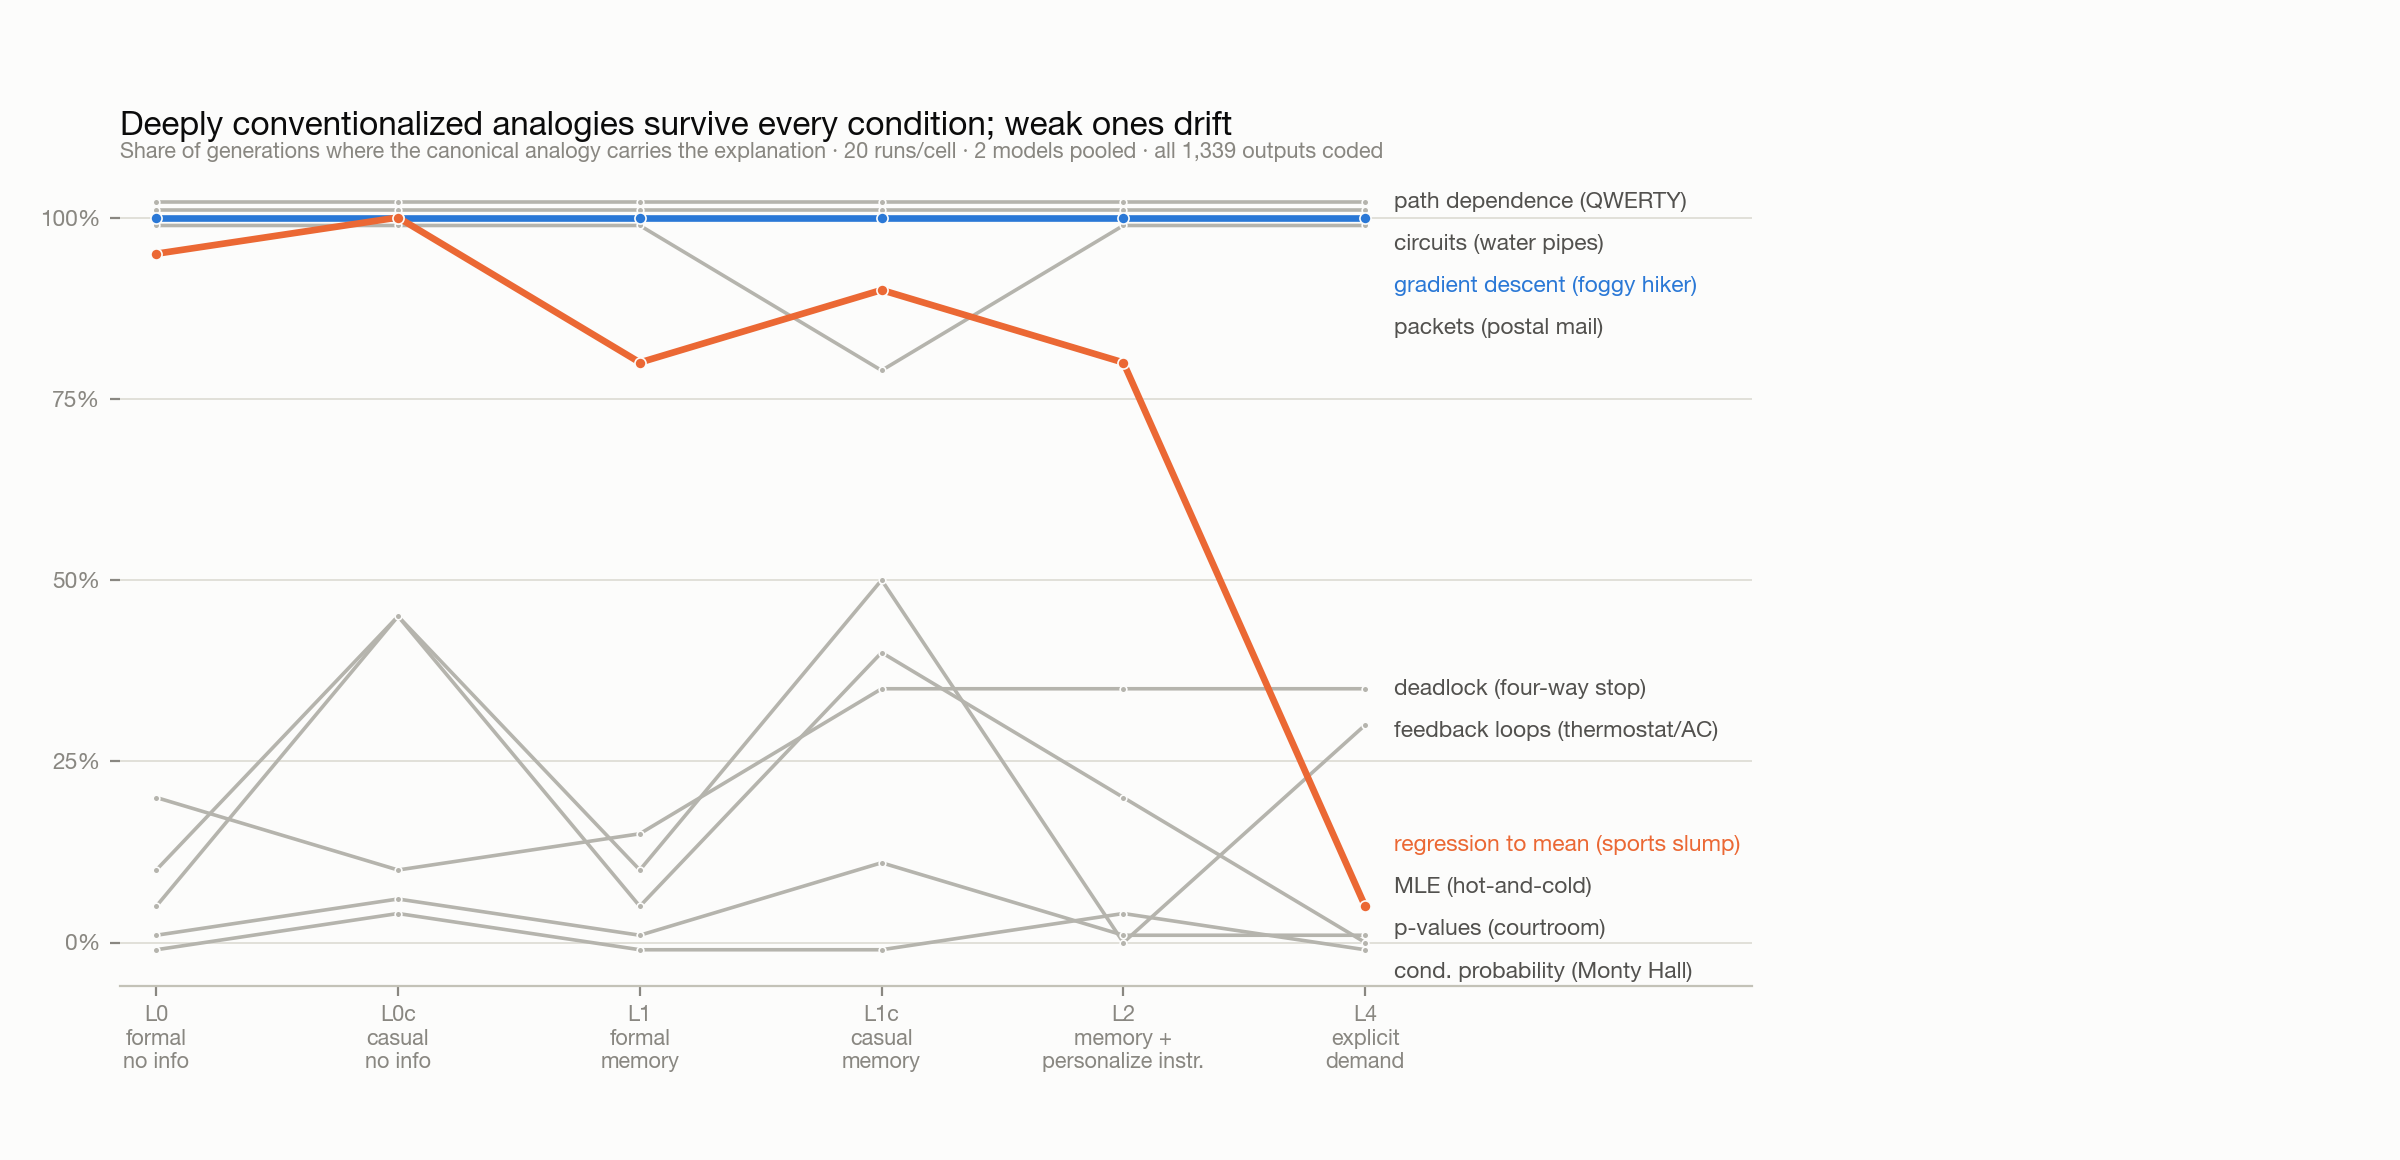
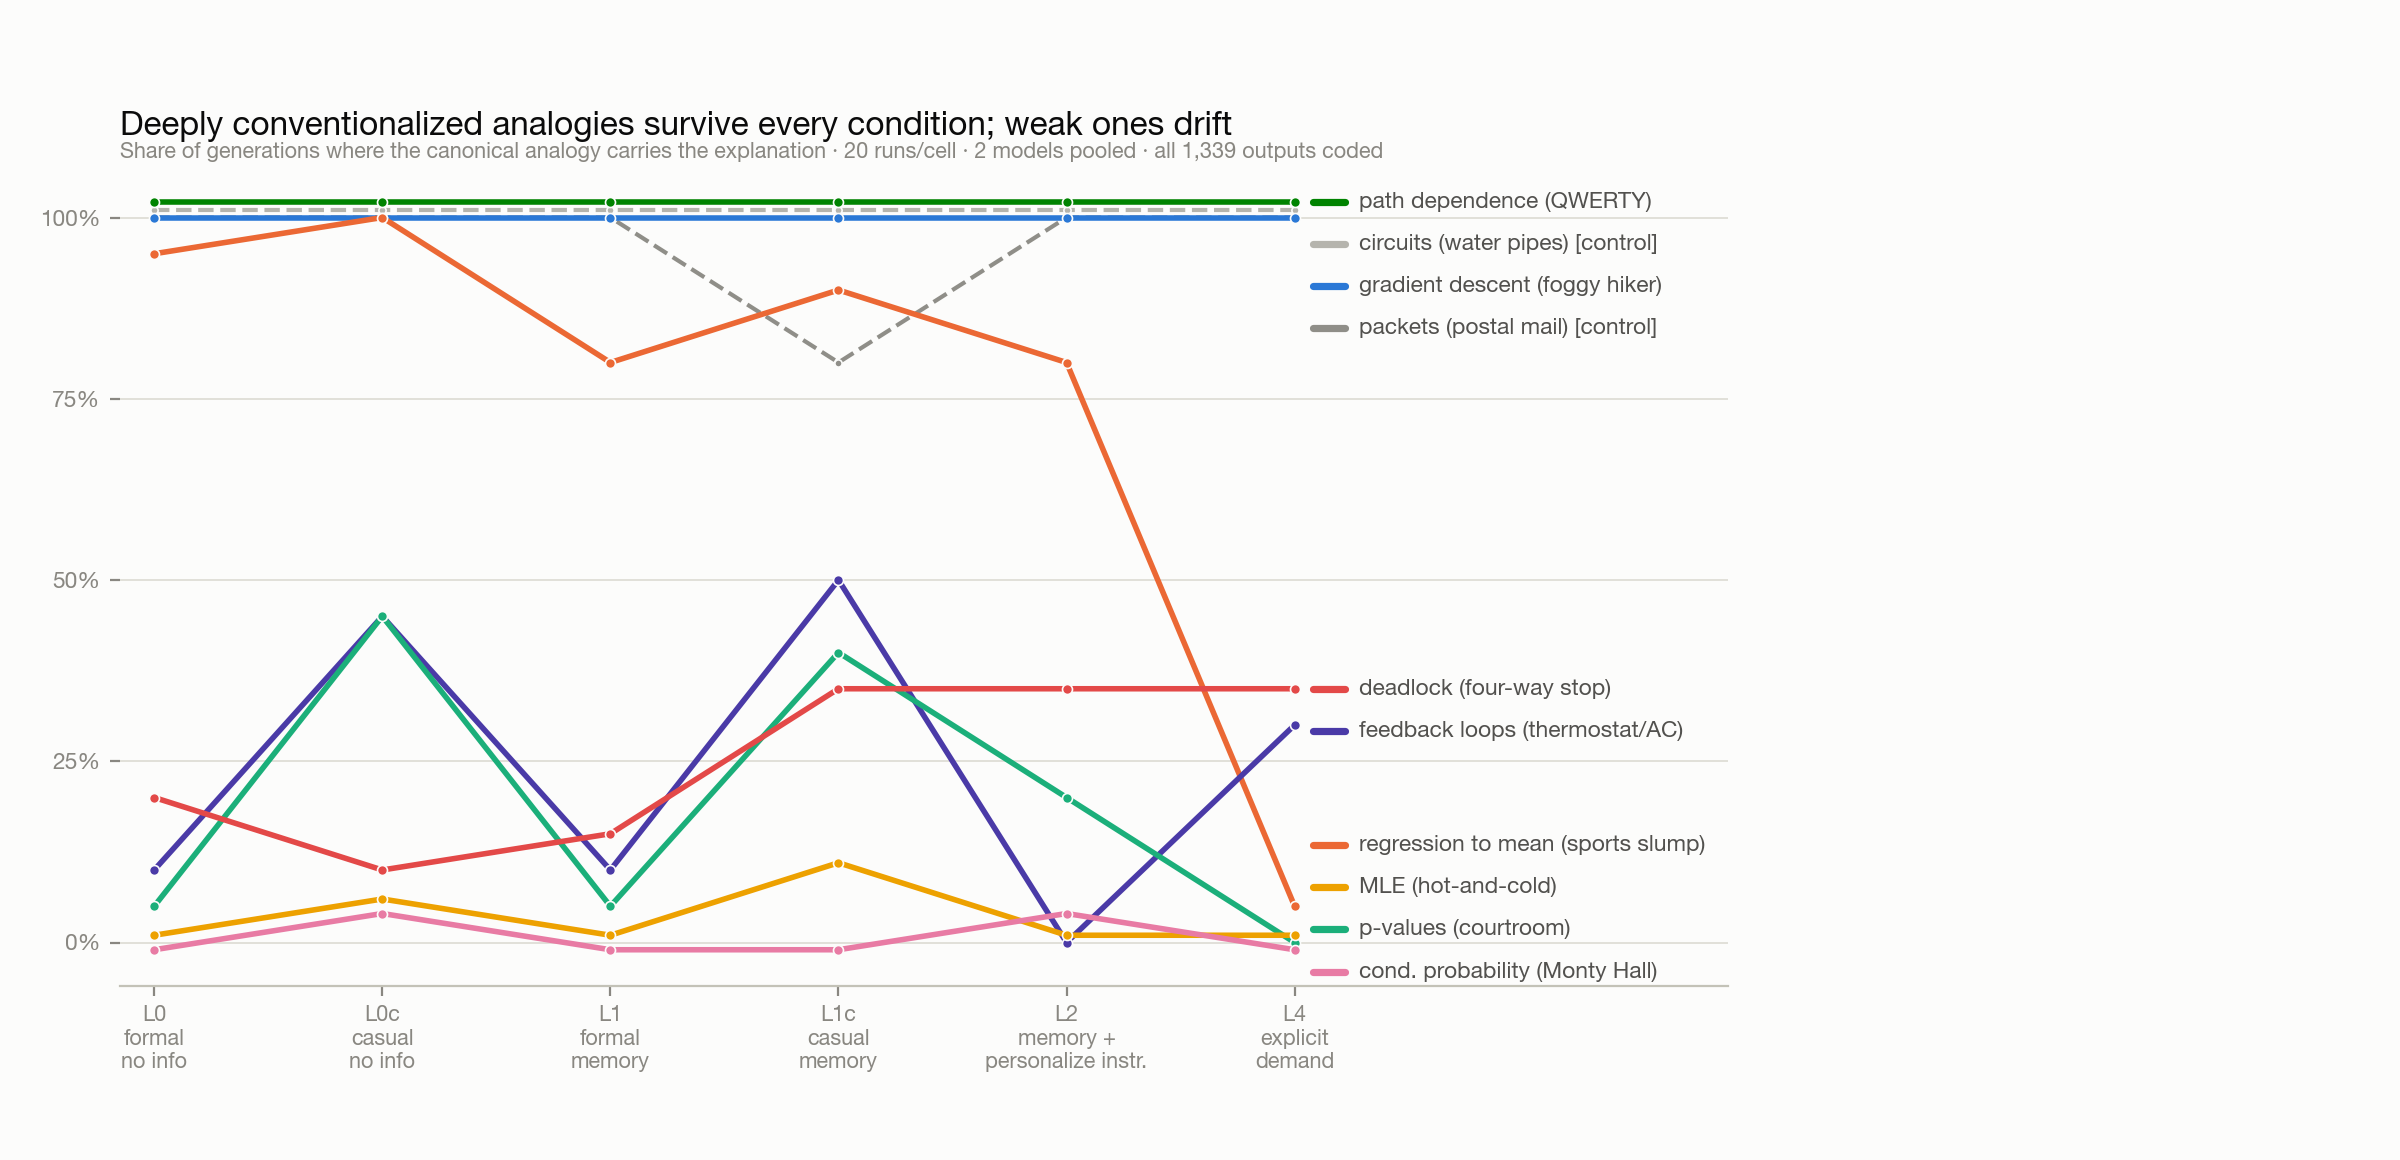
fig1: distinct color per concept, controls as dashed gray reference lines

diff --git a/figures.py b/figures.py
@@ -29,47 +29,53 @@ COND_LABELS = ["L0\nformal\nno info", "L0c\ncasual\nno info", "L1\nformal\nmemor
                "L1c\ncasual\nmemory", "L2\nmemory +\npersonalize instr.", "L4\nexplicit\ndemand"]
 
 # ---- Figure 1: canonical-trope survival across all six conditions ----------
+# Each concept gets its own categorical slot; the two stratum-B controls
+# (circuits, packets) are deliberately gray reference lines.
+AQUA = "#1baf7a"; VIOLET = "#4a3aa7"; RED = "#e34948"
 data = [
     ("gradient descent (foggy hiker)",   [100, 100, 100, 100, 100, 100], BLUE),
-    ("path dependence (QWERTY)",         [100, 100, 100, 100, 100, 100], None),
-    ("circuits (water pipes)",           [100, 100, 100, 100, 100, 100], None),
-    ("packets (postal mail)",            [100, 100, 100, 80, 100, 100],  None),
+    ("path dependence (QWERTY)",         [100, 100, 100, 100, 100, 100], GREEN),
+    ("circuits (water pipes) [control]", [100, 100, 100, 100, 100, 100], "#b5b4ad"),
+    ("packets (postal mail) [control]",  [100, 100, 100, 80, 100, 100],  "#8f8e88"),
     ("regression to mean (sports slump)",[95, 100, 80, 90, 80, 5],       ORANGE),
-    ("feedback loops (thermostat/AC)",   [10, 45, 10, 50, 0, 30],        None),
-    ("p-values (courtroom)",             [5, 45, 5, 40, 20, 0],          None),
-    ("deadlock (four-way stop)",         [20, 10, 15, 35, 35, 35],       None),
-    ("MLE (hot-and-cold)",               [0, 5, 0, 10, 0, 0],            None),
-    ("cond. probability (Monty Hall)",   [0, 5, 0, 0, 5, 0],             None),
+    ("feedback loops (thermostat/AC)",   [10, 45, 10, 50, 0, 30],        VIOLET),
+    ("p-values (courtroom)",             [5, 45, 5, 40, 20, 0],          AQUA),
+    ("deadlock (four-way stop)",         [20, 10, 15, 35, 35, 35],       RED),
+    ("MLE (hot-and-cold)",               [0, 5, 0, 10, 0, 0],            YELLOW),
+    ("cond. probability (Monty Hall)",   [0, 5, 0, 0, 5, 0],             MAGENTA),
 ]
 x = list(range(6))
 fig, ax = plt.subplots(figsize=(12.0, 5.8), dpi=200)
-dodge = {"path dependence (QWERTY)": 2.2, "circuits (water pipes)": 1.1,
-         "packets (postal mail)": -1.1, "MLE (hot-and-cold)": 1.0,
+dodge = {"path dependence (QWERTY)": 2.2, "circuits (water pipes) [control]": 1.1,
+         "gradient descent (foggy hiker)": 0.0, "MLE (hot-and-cold)": 1.0,
          "cond. probability (Monty Hall)": -1.0}
 label_y = {}
-for name, ys, hl in data:
+for name, ys, color in data:
     d = dodge.get(name, 0.0)
     yy = [v + d for v in ys]
-    ax.plot(x, yy, color=(hl or "#b5b4ad"), linewidth=2.4 if hl else 1.3,
-            zorder=3 if hl else 2, marker="o", markersize=4 if hl else 2.4,
-            markerfacecolor=(hl or "#b5b4ad"), markeredgecolor=SURFACE, markeredgewidth=0.6)
-    label_y[name] = (yy[-1], hl)
+    control = "[control]" in name
+    ax.plot(x, yy, color=color, linewidth=1.5 if control else 2.0,
+            zorder=2 if control else 3, marker="o", markersize=2.6 if control else 3.6,
+            markerfacecolor=color, markeredgecolor=SURFACE, markeredgewidth=0.6,
+            linestyle="--" if control else "-")
+    label_y[name] = (yy[-1], color)
 
 GAP = 5.8
 order = sorted(label_y.items(), key=lambda kv: -kv[1][0])
 slots = []
-for i, (name, (y, hl)) in enumerate(order):
+for i, (name, (y, c)) in enumerate(order):
     slots.append(y if i == 0 else min(y, slots[i - 1] - GAP))
 if slots and slots[-1] < -4.0:
     slots[-1] = -4.0
     for i in range(len(slots) - 2, -1, -1):
         slots[i] = max(slots[i], slots[i + 1] + GAP)
-for (name, (y, hl)), yy in zip(order, slots):
-    ax.annotate(name, xy=(5, y), xytext=(5.12, yy), fontsize=8.2,
-                color=(hl or SEC), fontweight="bold" if hl else "normal",
+for (name, (y, color)), yy in zip(order, slots):
+    ax.plot([5.08, 5.22], [yy, yy], color=color, linewidth=2.6, clip_on=False,
+            solid_capstyle="round")
+    ax.annotate(name, xy=(5, y), xytext=(5.28, yy), fontsize=8.2, color=SEC,
                 va="center", annotation_clip=False)
 
-ax.set_xlim(-0.15, 6.6); ax.set_ylim(-6, 106)
+ax.set_xlim(-0.15, 6.9); ax.set_ylim(-6, 106)
 ax.set_xticks(x); ax.set_xticklabels(COND_LABELS, fontsize=7.8)
 ax.set_yticks([0, 25, 50, 75, 100])
 ax.set_yticklabels(["0%", "25%", "50%", "75%", "100%"], fontsize=8.2)
@@ -81,7 +87,7 @@ ax.set_title("Deeply conventionalized analogies survive every condition; weak on
              fontsize=12, fontweight="bold", color=INK, loc="left", pad=14)
 ax.text(0, 1.015, "Share of generations where the canonical analogy carries the explanation · 20 runs/cell · 2 models pooled · all 1,339 outputs coded",
         transform=ax.transAxes, fontsize=7.8, color=MUT, va="bottom")
-fig.subplots_adjust(right=0.73, left=0.05, top=0.85, bottom=0.15)
+fig.subplots_adjust(right=0.72, left=0.05, top=0.85, bottom=0.15)
 fig.savefig(OUT / "fig1_trope_survival.png")
 plt.close(fig)
 
